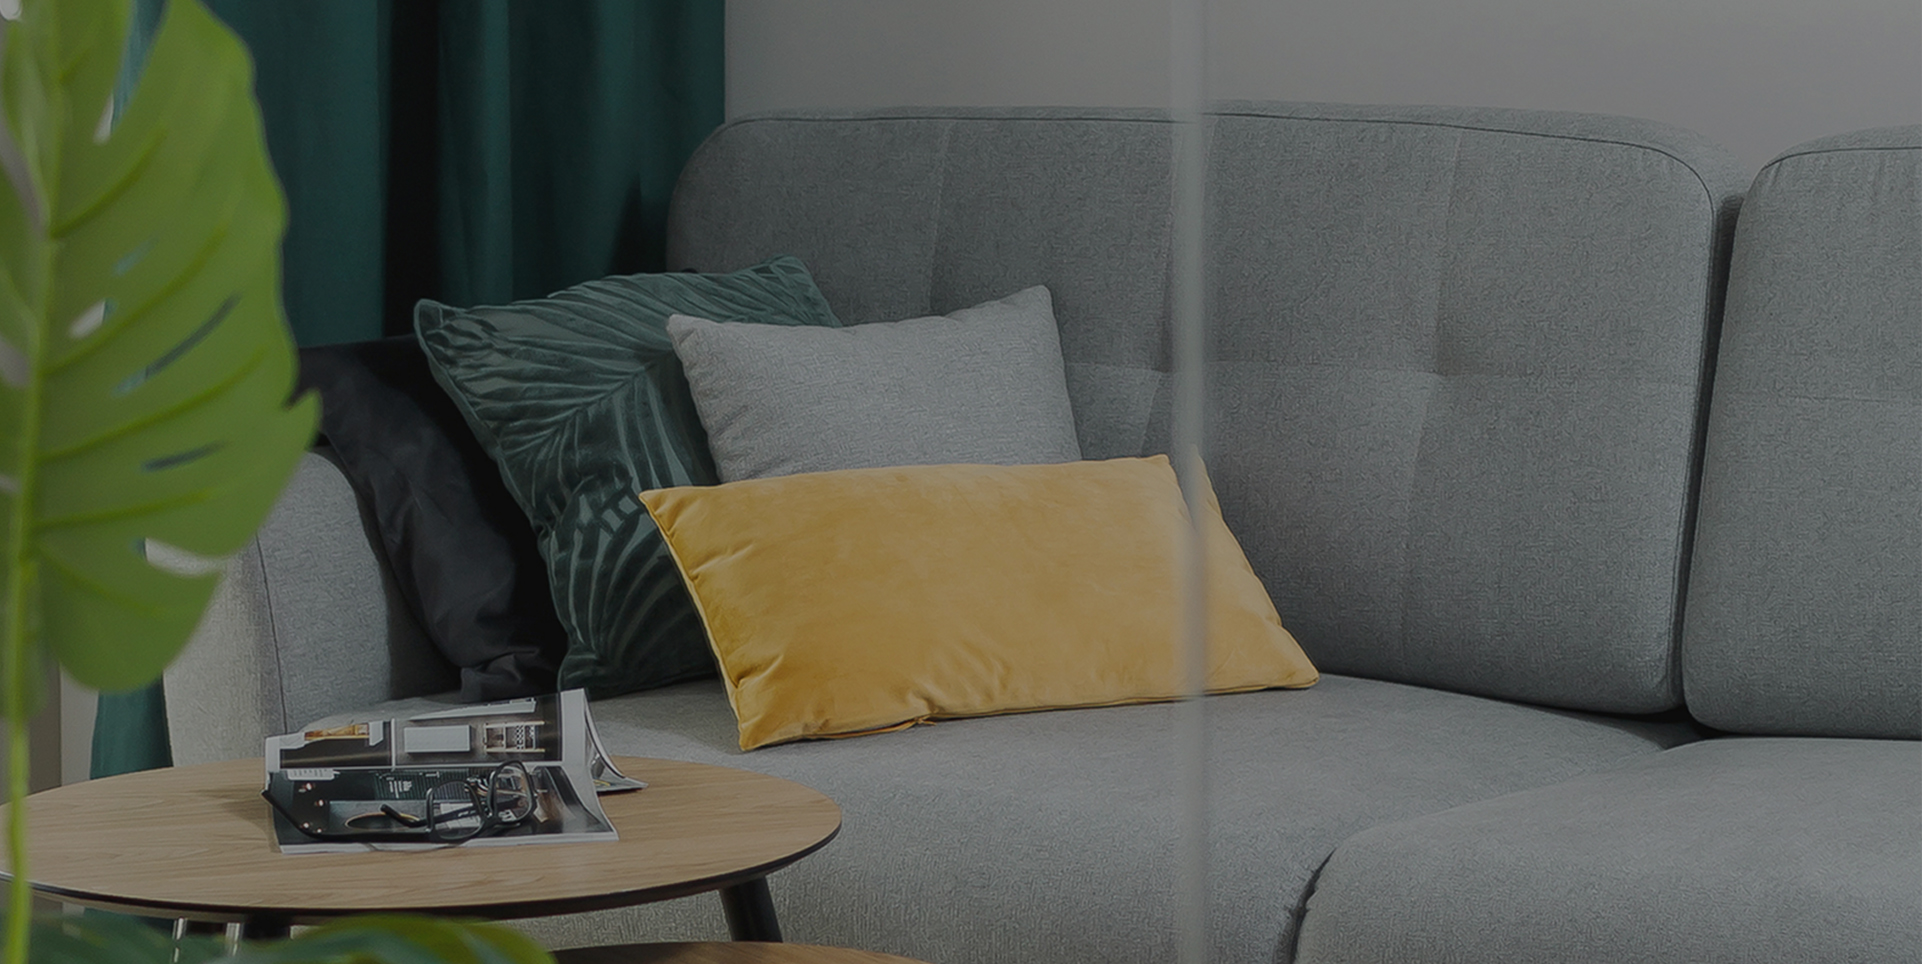
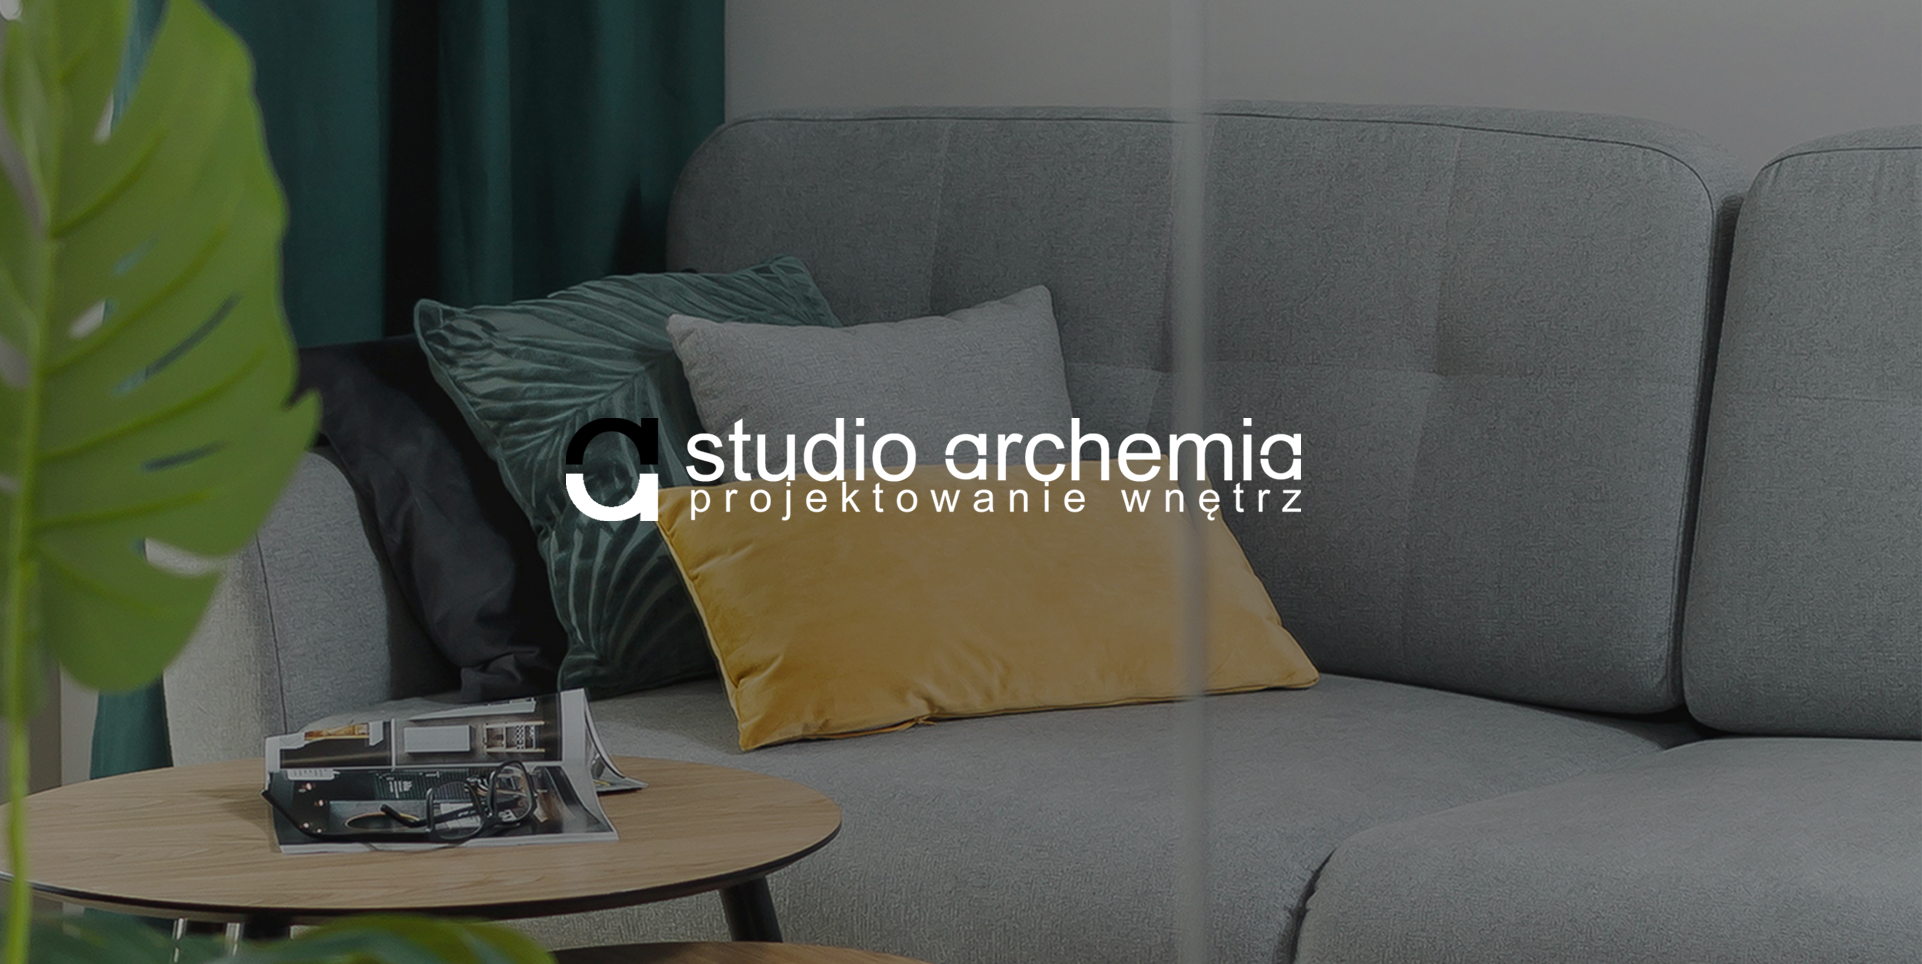
homepage changes

Changed region(s): [[0.281, 0.4357, 0.6868, 0.6846]]

diff --git a/resources/views/web/index.blade.php b/resources/views/web/index.blade.php
@@ -78,8 +78,10 @@
           <hr>
           <p>Laboratorium architektury - projektowanie wnętrz</p>
           <a class="btn btn-primary btn-xl js-scroll-trigger" href="#about">Find Out More</a> --}}
-          <img src="/img/studio-archemia.png" class="home-heading">
-          <p class="subtitle">laboratorium architektury | projektowanie wnętrz</p>
+
+
+{{--          <img src="/img/studio-archemia.png" class="home-heading">--}}
+{{--          <p class="subtitle">laboratorium architektury | projektowanie wnętrz</p>--}}
         </div>
       </div>
     </header>
@@ -91,12 +93,30 @@
             <h2 class="section-heading text-black">O NAS</h2>
             <img src="/img/o-nas.png" class="img-about">
             <p class="text-faded text-black text-center">
-              Z wykształcenia jesteśmy architektami i grafikami. Ukończyłyśmy Wydział Architektury i Urbanistyki na Politechnice Krakowskiej oraz Grafikę Komputerową na Akademii Górniczo-Hutniczej w Krakowie. Od ponad dziesięciu lat tworzymy energiczny duet, który świetnie się uzupełnia.<br><br>
-              Nasze <strong>projekty wystroju wnętrz</strong> charakteryzuje ciekawy design, styl i klasa. Kładziemy nacisk na ergonomię przestrzeni, tworząc unikalne wnętrza dostosowane do indywidualnych potrzeb i trybu życia klienta. <strong>Aranżacja wnętrz</strong> jest naszą pasją, dlatego stale śledzimy najnowsze trendy pojawiające się na rynku z zakresu nowoczesnych materiałów i technologii. To daje gwarancję, że zaprojektowane przez nas wnętrze będzie nietuzinkowe a inżynierskie wykształcenie dodatkowo pozwoli nam precyzyjnie dopracować każdy techniczny detal.<br><br>
-              Specjalizujemy się we wnętrzach nowoczesnych, lubimy minimalizm, styl skandynawski i loftowy. Kierujemy się zasadą, że najlepsze wnętrza to takie, które nie tylko pięknie wyglądają  ale w których wygodnie się mieszka.<br><br>
-              Współpracujemy z gronem wyspecjalizowanych fachowców.<br><br>
-              Z przyjemnością podejmiemy się zleceń obejmujących <strong>projektowanie wnętrz</strong> prywatnych i publicznych.<br><br>
-              Serdecznie zapraszamy do współpracy!<br><br>
+              <strong>Witaj na naszej stronie!</strong> Cieszymy się, że do nas trafiłeś. Studio Archemia tworzymy jako zgrany duet
+              Natalia i Barbara, który od ponad 10 lat idealnie się uzupełnia. Ukończyłyśmy Wydział Architektury na Politechnice Krakowskiej.
+              <strong>Aranżacja wnętrz</strong> jest dla nas zarówno przyjemnością jak i pracą twórczą. W <strong>projektowanie wnętrz</strong>
+              wkładamy energię, wiedzę i zaangażowanie.
+              Inżynierskie wykształcenie pozwala nam zadbać o każdy techniczny detal.<br><br>
+
+              <b><u>Wybrałyśmy ten zawód, ponieważ:</u></b><br>
+              - potrafimy słuchać i wcielać marzenia w życie,<br>
+              - interesują nas ciekawe i nieoczywiste rozwiązania,<br>
+              - lubimy się rozwijać, stale poszerzać wiedzę z zakresu nowych technologii,<br><br>
+
+              <b><u>Wybierając nas masz pewność, że:</u></b><br>
+              1. Pomożemy określić, co jest dla Ciebie ważne w użytkowaniu przestrzeni,<br>
+              2. Zwrócimy uwagę na szczegóły, o których nie pomyślałbyś urządzając wnętrze,<br>
+              3. Nasze <strong>projekty wystroju wnętrz</strong> będą odzwierciedleniem Twojego trybu życia, charakteru i przyzwyczajeń,<br>
+              4. Zadbamy o to, aby projekt wnętrza był wygodny i komfortowy, dostosowany do Ciebie,<br>
+              5. Połączymy wiedzę techniczną ze szczyptą kobiecego wyczucia,<br>
+              6. Zaproponujemy konkretne i praktyczne rozwiązania,<br>
+              7. Dopasujemy trendy z zakresu materiałów i technologii do Twoich potrzeb,<br>
+              8. Dostaniesz projekt gotowy do zrealizowania<br>
+              9. Sprawimy ze realizując swój projekt unikniesz niepotrzebnych stresów<br>
+              10. Poczujesz się świetnie w swoim wnętrzu. Zasługujesz na to!<br><br>
+
+              Masz wątpliwości? Zadzwoń, chętnie odpowiemy na Twoje pytania.
             </p>
           </div>
         </div>
